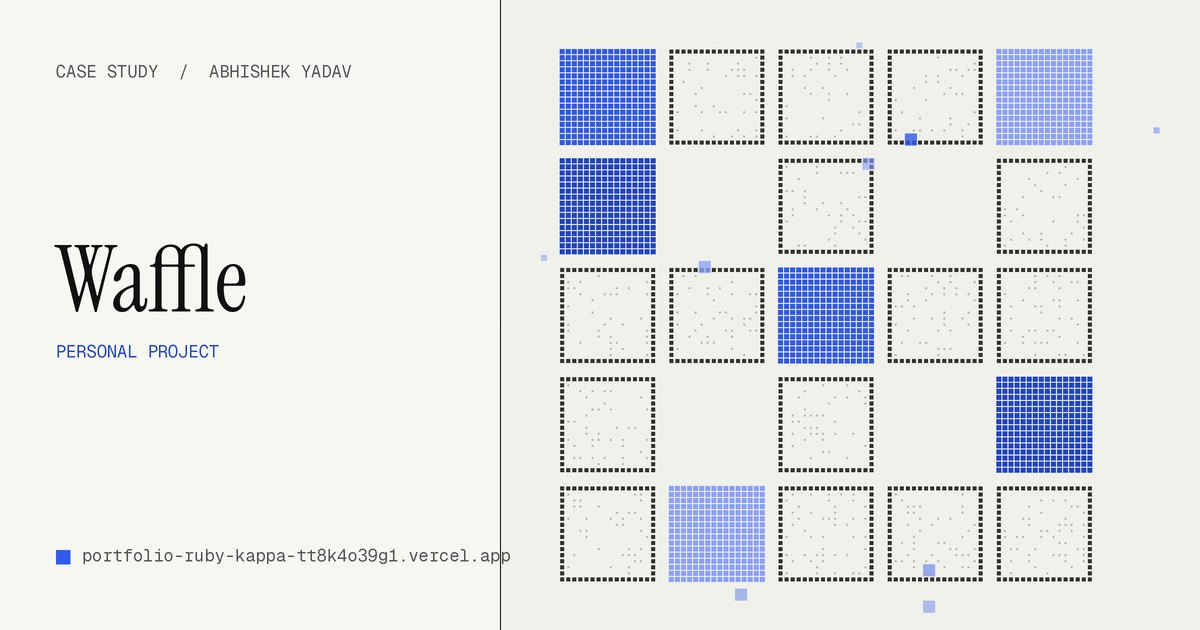
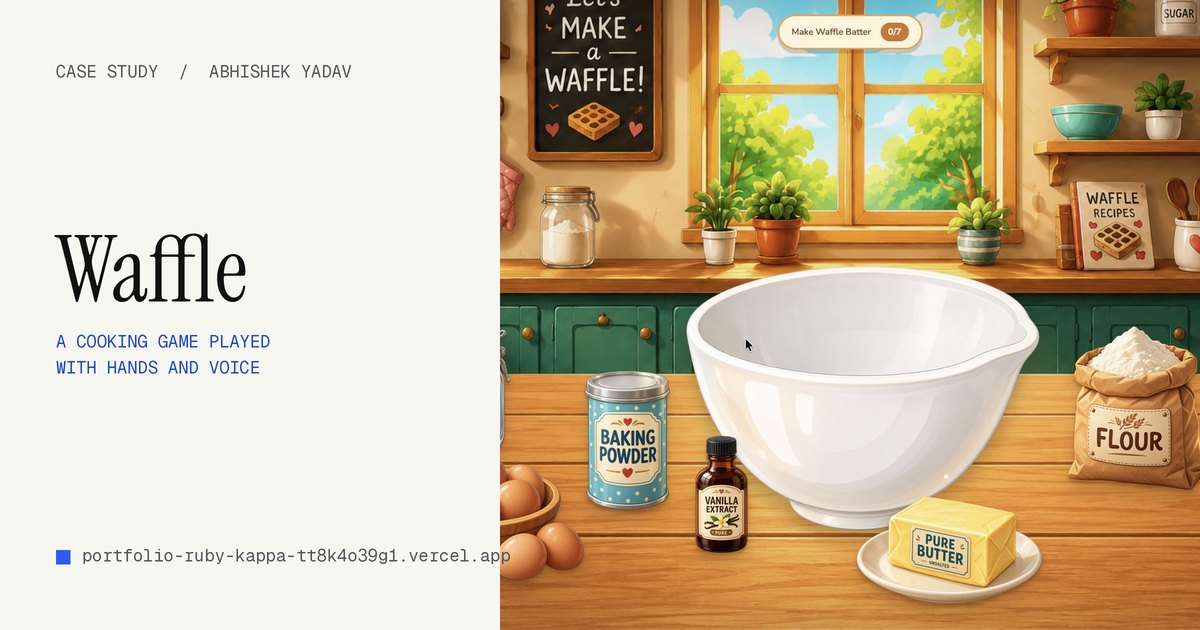
Waffle: real screenshots, step-by-step round, controls table, updated numbers and share image

diff --git a/work/waffle.html b/work/waffle.html
@@ -4,7 +4,7 @@
 <meta charset="utf-8">
 <meta name="viewport" content="width=device-width, initial-scale=1">
 <title>Waffle, a case study by Abhishek Yadav</title>
-<meta name="description" content="A browser cooking game you play with your hands and voice instead of a mouse. Designed and built solo, from idea to live game, in about a week.">
+<meta name="description" content="A browser cooking game you play with your hands and voice. Take an order, make the batter, mix, cook and top your waffle, then get scored out of three stars. Designed and built solo in about a week.">
 <meta name="theme-color" content="#F7F7F2" media="(prefers-color-scheme: light)">
 <meta name="theme-color" content="#1B1621" media="(prefers-color-scheme: dark)">
 <script>
@@ -16,7 +16,7 @@
   };
 </script>
 <meta property="og:title" content="Waffle, a case study by Abhishek Yadav">
-<meta property="og:description" content="A browser cooking game you play with your hands and voice instead of a mouse. Designed and built solo, from idea to live game, in about a week.">
+<meta property="og:description" content="A browser cooking game you play with your hands and voice. Take an order, make the batter, mix, cook and top your waffle, then get scored out of three stars. Designed and built solo in about a week.">
 <meta property="og:type" content="website">
 <link rel="canonical" href="https://portfolio-ruby-kappa-tt8k4o39g1.vercel.app/work/waffle">
 <meta property="og:url" content="https://portfolio-ruby-kappa-tt8k4o39g1.vercel.app/work/waffle">
@@ -27,7 +27,7 @@
 <meta property="og:image:alt" content="Waffle, a case study by Abhishek Yadav">
 <meta name="twitter:image" content="https://portfolio-ruby-kappa-tt8k4o39g1.vercel.app/og/waffle.jpg">
 <meta name="twitter:title" content="Waffle, a case study by Abhishek Yadav">
-<meta name="twitter:description" content="A browser cooking game you play with your hands and voice instead of a mouse. Designed and built solo, from idea to live game, in about a week.">
+<meta name="twitter:description" content="A browser cooking game you play with your hands and voice. Take an order, make the batter, mix, cook and top your waffle, then get scored out of three stars. Designed and built solo in about a week.">
 <meta name="twitter:card" content="summary_large_image">
 <link rel="icon" href="/favicon.svg" type="image/svg+xml">
 <link rel="preconnect" href="https://fonts.googleapis.com">
@@ -58,7 +58,7 @@
   <section class="cs-head">
     <a class="back label" href="/#work">Back to work</a>
     <h1>Waffle</h1>
-    <p class="summary">A browser cooking game you play with your hands and voice instead of a mouse. Designed and built solo, from idea to live game, in about a week.</p>
+    <p class="summary">A browser cooking game you play with your hands and voice. Take an order, make the batter, mix, cook and top your waffle, then get scored out of three stars. Designed and built solo in about a week.</p>
     
     <a class="btn btn-solid play-link" href="https://waffle-game-iota.vercel.app/" target="_blank" rel="noopener">Play Waffle<span aria-hidden="true">↗</span></a>
     <div class="cs-meta">
@@ -71,13 +71,16 @@
   </section>
   <div class="cs-body">
     <section class="cs-block"><div class="label">Overview</div><div class="copy"><p class="big">Waffle is a browser game about making a waffle, played with your hands and your voice. Hand tracking with MediaPipe and voice recognition replace the mouse and keyboard, so an everyday cooking routine becomes something you perform. It&#x27;s a personal project: I designed and built it on my own, from idea to a live, playable game, in about a week.</p></div></section>
-    <section class="cs-block"><div class="numbers"><div class="num"><span class="num-v">1</span><span class="num-l">week, idea to live game</span></div><div class="num"><span class="num-v">1</span><span class="num-l">person: concept, design, build</span></div><div class="num"><span class="num-v">2</span><span class="num-l">ways to play: hands and voice</span></div><div class="num"><span class="num-v">7</span><span class="num-l">illustrated game elements</span></div></div></section>
-    <section class="cs-block"><div class="label">How a round works</div><div class="copy"><p>The player works through each stage of making a waffle, interacting directly with the batter, the waffle maker, the toppings and the plate, until the waffle is done. The goal is simple: finish the cooking sequence and serve the completed waffle.</p><p>Instead of clicking through a menu, you interact with each element of the kitchen itself, using gestures tracked by your camera and spoken commands.</p></div></section>
+    <section class="cs-block"><div class="numbers"><div class="num"><span class="num-v">1</span><span class="num-l">week, idea to live game</span></div><div class="num"><span class="num-v">7</span><span class="num-l">batter ingredients</span></div><div class="num"><span class="num-v">7</span><span class="num-l">toppings to choose from</span></div><div class="num"><span class="num-v">3</span><span class="num-l">stars for a perfect waffle</span></div></div></section>
+    <section class="cs-block figs"><figure class="figure has-img full"><img src="/img/waffle/batter.jpg" alt="The Waffle kitchen: an illustrated counter with sugar, eggs, baking powder, vanilla, butter, flour and milk around a mixing bowl. A checklist on the left tracks Waffle Batter 0 of 7; panels on the right show camera tracking, a pinch gesture guide and voice control." loading="lazy" decoding="async" width="1800" height="972"><figcaption>Stage one: pick seven ingredients for the batter, by pinching or by voice.</figcaption></figure></section>
+    <section class="cs-block"><div class="label">A round, step by step</div><div class="copy"><ol class="decisions"><li><span class="dc-n">01</span><div><h3>Take the order</h3><p>A customer orders a waffle, like a Strawberry Supreme for Ishaan, with the toppings it needs.</p></div></li><li><span class="dc-n">02</span><div><h3>Make the batter</h3><p>Point at each of the seven ingredients and pinch to pick it up, then open your palm to drop it in the bowl. Or just say “add milk”.</p></div></li><li><span class="dc-n">03</span><div><h3>Mix</h3><p>Circle your index finger in the air to stir, drag circles inside the bowl, or say “mix”. A progress bar fills as you go.</p></div></li><li><span class="dc-n">04</span><div><h3>Cook</h3><p>Cook the waffle to golden brown.</p></div></li><li><span class="dc-n">05</span><div><h3>Top and serve</h3><p>Pinch the right toppings from a tray of seven, or say a topping, then “serve”.</p></div></li><li><span class="dc-n">06</span><div><h3>Get scored</h3><p>Up to three stars, with your time, your best score, and a button to share your waffle.</p></div></li></ol></div></section>
+    <section class="cs-block"><div class="label">Three ways to play</div><div class="copy"><div class="tbl-wrap"><table class="ctrl"><thead><tr><th scope="col">Stage</th><th scope="col">Hands</th><th scope="col">Voice</th><th scope="col">Mouse</th></tr></thead><tbody><tr><th scope="row">Batter</th><td>Point and pinch to pick, open palm to add</td><td>“Add milk”</td><td>—</td></tr><tr><th scope="row">Mix</th><td>Circle your index finger</td><td>“Mix”</td><td>Drag circles in the bowl</td></tr><tr><th scope="row">Toppings</th><td>Point at a topping and pinch</td><td>Say a topping, then “serve”</td><td>—</td></tr></tbody></table></div><p>Each stage names its gesture and its voice command on screen, so players never have to guess.</p></div></section>
+    <section class="cs-block figs"><figure class="figure has-img half"><img src="/img/waffle/mix.jpg" alt="A top-down bowl of flour, egg, butter, sugar and vanilla with a whisk. A banner reads Mix the Batter, 0 percent: circle your index finger, or drag circles inside the bowl." loading="lazy" decoding="async" width="1800" height="975"><figcaption>Stage two: stir by circling a finger in the air.</figcaption></figure><figure class="figure has-img half"><img src="/img/waffle/toppings.jpg" alt="A plain waffle on a plate. An order card for Ishaan lists Strawberry Supreme: strawberry, whipped cream and chocolate. A tray below offers seven toppings. The camera panel warns: hand not visible, move your hand into view." loading="lazy" decoding="async" width="1800" height="972"><figcaption>Toppings, with live camera feedback when your hand leaves the frame.</figcaption></figure></section>
     <section class="cs-block"><div class="label"></div><blockquote class="pull">Anyone should be able to start playing without instructions.</blockquote></section>
-    <section class="cs-block"><div class="label">The challenge</div><div class="copy"><p>Gesture and voice controls are unfamiliar for most people. The hard part was making the cooking process understandable through visual interaction alone, while keeping it simple enough for a casual player with no gaming experience.</p></div></section>
-    <section class="cs-block"><div class="label">Key decisions</div><div class="copy"><ol class="decisions"><li><span class="dc-n">01</span><div><h3>Keep the gameplay simple</h3><p>So players understand what to do in seconds, even with unfamiliar controls.</p></div></li><li><span class="dc-n">02</span><div><h3>Show progress through cooking states</h3><p>The batter, the cooking waffle and the finished waffle each look different, so you always know how far along you are.</p></div></li><li><span class="dc-n">03</span><div><h3>One illustrated environment</h3><p>Every object was designed to belong to the same kitchen, so the game feels like one experience rather than a collection of separate assets.</p></div></li></ol></div></section>
-    <section class="cs-block"><div class="label">One visual system</div><div class="copy"><p>A warm, playful cooking-game style, with illustrated objects and clear visual states that work together:</p><ul class="chips"><li>Waffle maker</li><li>Batter</li><li>Waffle states</li><li>Steam</li><li>Honey</li><li>Utensils</li><li>Plate</li></ul></div></section>
-    <section class="cs-block figs"><div class="figure half"><span>[Start screen]</span></div><div class="figure half"><span>[Gameplay]</span></div><div class="figure third"><span>[Cooking stage]</span></div><div class="figure third"><span>[Cooking stage]</span></div><div class="figure third"><span>[Completed waffle]</span></div><div class="figure full"><span>[Gameplay recording]</span></div><p class="fig-cap">From the first screen to a finished waffle.</p></section>
+    <section class="cs-block"><div class="label">The challenge</div><div class="copy"><p>Gesture and voice controls are unfamiliar for most people. The hard part was making the cooking process understandable through visual interaction alone, while keeping it simple enough for a casual player with no gaming experience.</p><p>So the game coaches you the whole time. A gesture guide shows the move for the current stage, the camera panel reports what it sees (“Hand not visible”, “Move your hand into view”), a checklist tracks every ingredient and topping, and a warning appears the moment tracking is lost.</p></div></section>
+    <section class="cs-block"><div class="label">Key decisions</div><div class="copy"><ol class="decisions"><li><span class="dc-n">01</span><div><h3>Keep the gameplay simple</h3><p>So players understand what to do in seconds, even with unfamiliar controls.</p></div></li><li><span class="dc-n">02</span><div><h3>Show progress through cooking states</h3><p>The batter, the cooking waffle and the finished waffle each look different, and checklists and progress bars show how far along you are.</p></div></li><li><span class="dc-n">03</span><div><h3>Never leave the player guessing</h3><p>A persistent gesture guide, live camera status and a voice prompt for every stage, with a mouse fallback where it helps.</p></div></li><li><span class="dc-n">04</span><div><h3>One illustrated environment</h3><p>Every object was designed to belong to the same warm kitchen, so the game feels like one experience rather than a collection of separate assets.</p></div></li></ol></div></section>
+    <section class="cs-block figs"><figure class="figure has-img half"><img src="/img/waffle/result.jpg" alt="A result card reading Practice round, Chef&#x27;s kiss, with three gold stars and a photo of a strawberry, cream and chocolate waffle. Cooked to a perfect golden brown; every topping was right. Time 3:05. Buttons: Share my waffle and Next order." loading="lazy" decoding="async" width="1800" height="972"><figcaption>The payoff: three stars, a time to beat, and a waffle to share.</figcaption></figure><figure class="figure has-img half"><img src="/img/waffle/office.jpg" alt="Waffle open on a MacBook at a desk, mid-way through picking butter for the batter." loading="lazy" decoding="async" width="1400" height="757"><figcaption>Waffle in the wild, picking butter for the batter.</figcaption></figure></section>
+    <section class="cs-block"><div class="label">One visual system</div><div class="copy"><p>A warm, playful cooking-game style, with illustrated objects and clear visual states that work together:</p><ul class="chips"><li>Waffle maker</li><li>Batter</li><li>Waffle states</li><li>Steam</li><li>Honey</li><li>Utensils</li><li>Plate</li><li>Toppings tray</li><li>Order cards</li><li>Gesture guide</li></ul></div></section>
     <section class="cs-block"><div class="label">Built with AI</div><div class="copy"><p class="stat"><span class="stat-v">1 week</span><span class="stat-u">from idea to a live game</span></p><p>I built Waffle with Claude and ChatGPT, which let me move from concept to visual design to working computer vision and voice controls, and ship a playable game in about a week.</p></div></section>
     <section class="cs-block"><div class="label">What&#x27;s next</div><div class="copy"><p>More toppings are next. I also haven&#x27;t playtested it formally yet, so watching people play for the first time is the other step I want to take.</p></div></section>
   </div>

diff --git a/work/farmart-dashak.html b/work/farmart-dashak.html
@@ -78,7 +78,7 @@
     <section class="cs-block"><div class="label">Mapping the two days</div><div class="copy"><p>I started by mapping what each day needed: the activities, the tone, and the awards. That showed where the identity had to stay fixed and where it could flex for the context.</p><p>I worked with FarMart&#x27;s marketing and event teams throughout, from understanding requirements and exploring directions to incorporating feedback and preparing final files for production.</p></div></section>
     <section class="cs-block"><div class="label">One system, every size</div><div class="copy"><p>The same visual language had to hold up across very different formats, each seen at a different distance:</p><ol class="scale"><li><span class="sc-sq" style="--s:1.0" aria-hidden="true"></span><span class="sc-t">10-year walls</span><span class="sc-d">Seen from across the venue</span></li><li><span class="sc-sq" style="--s:0.857" aria-hidden="true"></span><span class="sc-t">Backdrops and stage</span><span class="sc-d">Read in photos and from the audience</span></li><li><span class="sc-sq" style="--s:0.714" aria-hidden="true"></span><span class="sc-t">Flags and venue branding</span><span class="sc-d">Glimpsed while moving through the space</span></li><li><span class="sc-sq" style="--s:0.571" aria-hidden="true"></span><span class="sc-t">Event printables</span><span class="sc-d">Picked up and read</span></li><li><span class="sc-sq" style="--s:0.429" aria-hidden="true"></span><span class="sc-t">Certificates</span><span class="sc-d">Read up close, kept</span></li><li><span class="sc-sq" style="--s:0.286" aria-hidden="true"></span><span class="sc-t">Trophies</span><span class="sc-d">Held, photographed</span></li><li><span class="sc-sq" style="--s:0.143" aria-hidden="true"></span><span class="sc-t">Mementos</span><span class="sc-d">Taken home</span></li></ol><p>Large-format pieces had to work from a distance, while certificates, trophies and mementos needed finer, more refined detail. Everything was designed in Figma with physical production in mind.</p></div></section>
     <section class="cs-block"><div class="label">Key decisions</div><div class="copy"><ol class="decisions"><li><span class="dc-n">01</span><div><h3>Make “10 Years” the hero</h3><p>The milestone became the central visual element and the common thread connecting every asset and both days.</p></div></li><li><span class="dc-n">02</span><div><h3>One identity, two experiences</h3><p>Instead of separate branding for each day, a shared system that adapts, so the days feel connected while keeping their own character.</p></div></li><li><span class="dc-n">03</span><div><h3>Take the identity off the wall</h3><p>The branding extended into certificates, trophies and mementos, so the identity became something employees could take home.</p></div></li></ol></div></section>
-    <section class="cs-block figs"><figure class="figure has-img full"><img src="/img/dashak/wall.jpg" alt="A long white wall titled &#x27;Every chapter led us here. The story continues.&#x27; A timeline runs from 2016 to 2026 with milestones and a band of photos from FarMart&#x27;s decade." loading="lazy" decoding="async" width="1200" height="800"><figcaption>The 10-year wall: FarMart&#x27;s decade as a timeline, from 2016 to 2026.</figcaption></figure><figure class="figure has-img half"><img src="/img/dashak/arch.jpg" alt="A white entrance arch with the 10 FarMart dashak lockup, leading down a green carpet lined with feather flags." loading="lazy" decoding="async" width="1200" height="800"><figcaption>The entrance arch and flags leading into the venue.</figcaption></figure><figure class="figure has-img half"><img src="/img/dashak/standee.jpg" alt="A large standee reading &#x27;10 years of innovation and impact&#x27;, with 3D letters for the illustrated 10 and the dashak wordmark." loading="lazy" decoding="async" width="1200" height="800"><figcaption>Signage at the venue: the illustrated 10 as a 3D object.</figcaption></figure><figure class="figure has-img full"><img src="/img/dashak/backdrop.jpg" alt="A dark backdrop with the illustrated green 10, the FarMart logo and the dashak wordmark in white." loading="lazy" decoding="async" width="1200" height="800"><figcaption>The dark version of the lockup on the event backdrop.</figcaption></figure></section>
+    <section class="cs-block figs"><figure class="figure has-img full"><img src="/img/dashak/wall.jpg" alt="A long white wall titled &#x27;Every chapter led us here. The story continues.&#x27; A timeline runs from 2016 to 2026 with milestones and a band of photos from FarMart&#x27;s decade." loading="lazy" decoding="async" width="2000" height="1333"><figcaption>The 10-year wall: FarMart&#x27;s decade as a timeline, from 2016 to 2026.</figcaption></figure><figure class="figure has-img half"><img src="/img/dashak/arch.jpg" alt="A white entrance arch with the 10 FarMart dashak lockup, leading down a green carpet lined with feather flags." loading="lazy" decoding="async" width="1400" height="933"><figcaption>The entrance arch and flags leading into the venue.</figcaption></figure><figure class="figure has-img half"><img src="/img/dashak/standee.jpg" alt="A large standee reading &#x27;10 years of innovation and impact&#x27;, with 3D letters for the illustrated 10 and the dashak wordmark." loading="lazy" decoding="async" width="1400" height="933"><figcaption>Signage at the venue: the illustrated 10 as a 3D object.</figcaption></figure><figure class="figure has-img full"><img src="/img/dashak/backdrop.jpg" alt="A dark backdrop with the illustrated green 10, the FarMart logo and the dashak wordmark in white." loading="lazy" decoding="async" width="2000" height="1333"><figcaption>The dark version of the lockup on the event backdrop.</figcaption></figure></section>
     <section class="cs-block"><div class="label">Outcome</div><div class="copy"><p>The branding ran across both days of the celebration, with one visual language across:</p><ul class="chips"><li>10-year walls</li><li>Backdrops</li><li>Flags</li><li>Certificates</li><li>Trophies</li><li>Mementos</li><li>Event printables</li><li>On-ground branding</li><li>Event creatives</li></ul></div></section>
     <section class="cs-block"><div class="label">Team</div><div class="copy"><p>Designed with:</p><ul class="team"><li><a href="https://www.linkedin.com/in/akshaysharma007/" rel="noopener" target="_blank"><span class="tm-mark" aria-hidden="true"></span>Akshay Sharma<span class="tm-go">LinkedIn</span></a></li><li><a href="https://www.linkedin.com/in/anjali-choudhary-4b964827a/" rel="noopener" target="_blank"><span class="tm-mark" aria-hidden="true"></span>Anjali Choudhary<span class="tm-go">LinkedIn</span></a></li></ul><p class="team-note">Working with FarMart&#x27;s marketing and event teams.</p></div></section>
     <section class="cs-block"><div class="label">What I learned</div><div class="copy"><p class="big">Designing beyond the screen. Physical production meant thinking about viewing distance, scale and the object in someone&#x27;s hand, not just a frame in Figma.</p></div></section>

diff --git a/assets/styles.css b/assets/styles.css
@@ -588,5 +588,11 @@ section[id], footer[id] { scroll-margin-top: 88px; }
   .num:nth-child(n+3) { border-top: 1px solid var(--line); }
 }
 .figure.has-img { display: block; aspect-ratio: auto !important; border: 0; background: none; margin: 0; }
-.figure.has-img img { display: block; width: 100%; height: auto; aspect-ratio: 3 / 2; object-fit: cover; border: 1px solid var(--line); background: var(--field); }
+.figure.has-img img { display: block; width: 100%; height: auto; border: 1px solid var(--line); background: var(--field); }
 .figure.has-img figcaption { margin-top: 10px; font: 12px/1.5 var(--mono); color: var(--meta); }
+.tbl-wrap { overflow-x: auto; margin-bottom: 16px; }
+.ctrl { width: 100%; min-width: 540px; border-collapse: collapse; font-size: 15px; }
+.ctrl th, .ctrl td { text-align: left; vertical-align: top; padding: 14px 16px 14px 0; border-top: 1px solid var(--line); }
+.ctrl thead th { font: 500 11px var(--mono); letter-spacing: 0.12em; text-transform: uppercase; color: var(--meta); border-top: 1px solid var(--ink); }
+.ctrl tbody th { font-family: var(--serif); font-weight: 400; font-size: 22px; }
+.ctrl td:first-of-type { color: var(--ink); }

diff --git a/index.html b/index.html
@@ -100,7 +100,7 @@
       <a class="card span-5" href="/work/waffle">
         <div class="card-art" style="view-transition-name: art-waffle"><canvas data-pattern="waffle" role="img" aria-label="A five by five waffle grid of pixel tiles with four gaps, some tiles lit up."></canvas></div>
         <div class="card-title"><h3>Waffle</h3><span class="meta">Personal project, [Year]</span></div>
-        <p>A browser cooking game you play with your hands and voice instead of a mouse. Designed and built solo, from idea to live game, in about a week.</p>
+        <p>A browser cooking game you play with your hands and voice. Take an order, make the batter, mix, cook and top your waffle, then get scored out of three stars. Designed and built solo in about a week.</p>
         <span class="more">View case study</span>
       </a>
       <a class="card span-7" href="/work/kirana-club">

diff --git a/build.py b/build.py
@@ -285,7 +285,12 @@ def render_sections(secs):
                 if len(it) > 2:
                     src, alt, cap = it[2], it[3], it[4] if len(it) > 4 else ""
                     capt = f'<figcaption>{e(cap)}</figcaption>' if cap else ""
-                    return f'<figure class="figure has-img {sz}"><img src="{e(src)}" alt="{e(alt)}" loading="lazy" decoding="async" width="1200" height="800">{capt}</figure>'
+                    try:
+                        from PIL import Image as _I
+                        iw, ih = _I.open(src.lstrip("/")).size
+                    except Exception:
+                        iw, ih = 1200, 800
+                    return f'<figure class="figure has-img {sz}"><img src="{e(src)}" alt="{e(alt)}" loading="lazy" decoding="async" width="{iw}" height="{ih}">{capt}</figure>'
                 return f'<div class="figure {sz}"><span>[{e(lbl)}]</span></div>'
             figs = "".join(fig(it) for it in x["items"])
             cap = f'<p class="fig-cap">{e(x["caption"])}</p>' if x.get("caption") else ""
@@ -312,6 +317,10 @@ def render_sections(secs):
         elif t == "numbers":
             cells = "".join(f'<div class="num"><span class="num-v">{e(v)}</span><span class="num-l">{e(l)}</span></div>' for v, l in x["items"])
             out.append(f'<section class="cs-block"><div class="numbers">{cells}</div></section>')
+        elif t == "controls":
+            hd = "".join(f'<th scope="col">{e(h)}</th>' for h in x["head"])
+            rows = "".join("<tr>" + f'<th scope="row">{e(r[0])}</th>' + "".join(f"<td>{e(v)}</td>" for v in r[1:]) + "</tr>" for r in x["rows"])
+            out.append(f'<section class="cs-block">{lab}<div class="copy"><div class="tbl-wrap"><table class="ctrl"><thead><tr>{hd}</tr></thead><tbody>{rows}</tbody></table></div><p>{e(x.get("note", ""))}</p></div></section>')
         elif t == "stat":
             out.append(f'<section class="cs-block">{lab}<div class="copy"><p class="stat"><span class="stat-v">{e(x["value"])}</span><span class="stat-u">{e(x["unit"])}</span></p><p>{e(x["note"])}</p></div></section>')
     return "\n    ".join(out)
